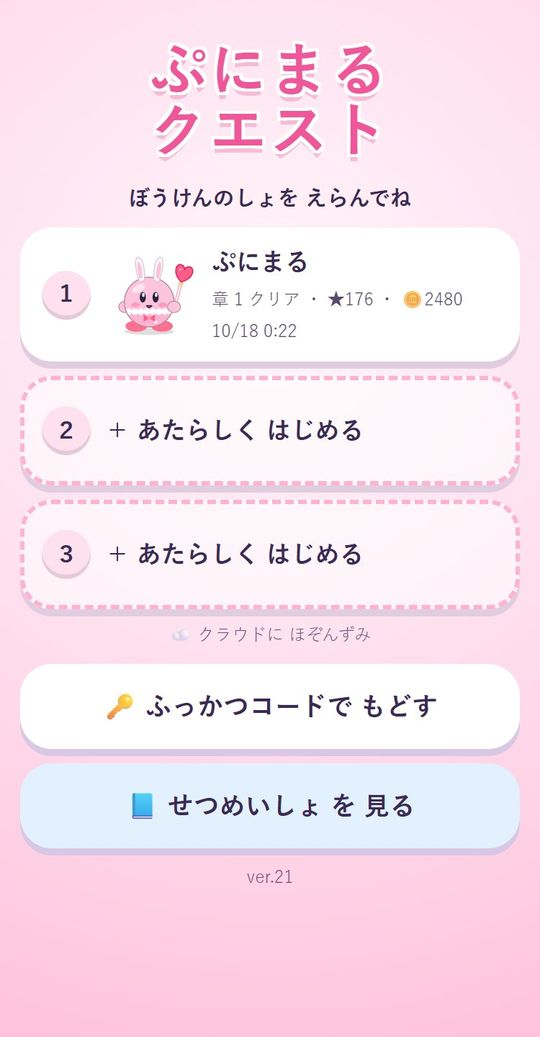
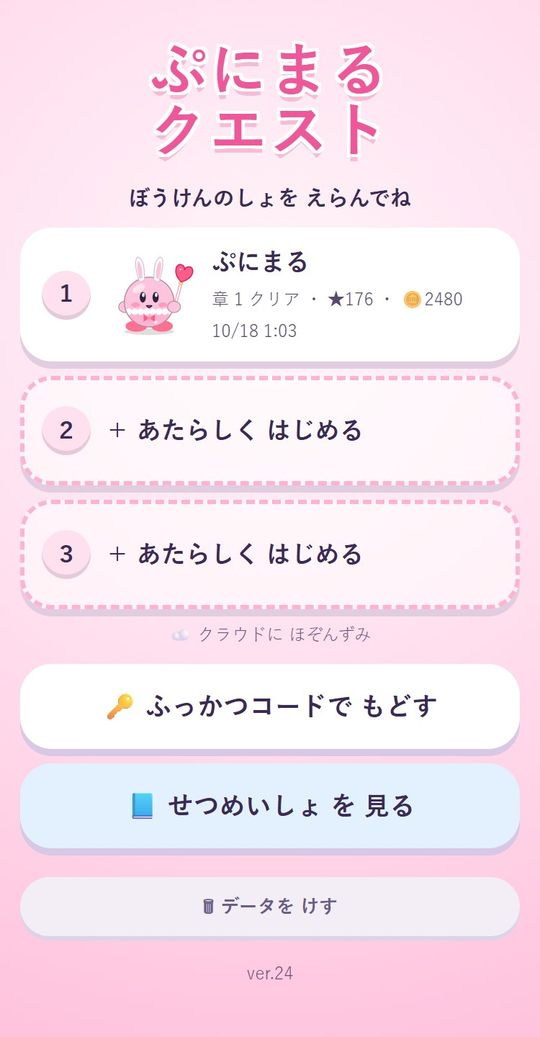
v24: タイトルから データを けす（2回確認）・けした データの ふっかつコード（最近5件）

Changed region(s): [[0.0296, 0.8332, 0.9778, 0.9566], [0.4741, 0.3086, 0.5037, 0.3394]]

diff --git a/app.js b/app.js
@@ -1653,13 +1653,71 @@ function doRestore() {
     S = Object.assign(newSave(), o); save(); closeModal(); toast("復元しました"); home();
   } catch (e) { toast("コードが正しくありません"); }
 }
-function resetAll() {
-  modal(`<div class="mtitle">ぼうけんのしょ${SL.cur + 1} を けす？</div><p class="small">「${esc(S.name)}」の コイン・そうび・カードが すべて きえます。<br>ほかの ぼうけんのしょは きえません。</p>
-    <div class="row"><button class="big-btn" onclick="closeModal()">やめる</button><button class="big-btn danger" onclick="deleteSlot()">けす</button></div>`);
+function resetAll() { delConfirm1(SL.cur); }
+
+// ---------- データを けす（タイトル画面から） ----------
+// けした データは クラウドに のこるので、ふっかつコードで もどせる。けした 記録は 5こまで のこす
+const DEL_KEY = PQ_DEBUG ? "puniquest_debug_deleted_v1" : "puniquest_deleted_v1";
+const delHistory = () => { try { return JSON.parse(localStorage.getItem(DEL_KEY) || "[]"); } catch (e) { return []; } };
+function delMenu() {
+  snd("tap");
+  const has = SL.slots.some((d) => d && d.name);
+  modal(`<div class="mtitle">🗑 データを けす</div>
+    <p class="small">けしたい ぼうけんのしょを えらんでね。</p>
+    <div class="rslots">${[0, 1, 2].map((i) => { const d = SL.slots[i]; return d && d.name
+      ? `<button class="big-btn" onclick="delConfirm1(${i})">ぼうけんのしょ${i + 1}：${esc(d.name)}<small>⭐${Object.values(d.stClear || {}).reduce((a, b) => a + b, 0)}・🪙${d.coins}・さいごに あそんだ日 ${d.savedAt ? new Date(d.savedAt).toLocaleDateString("ja-JP") : "-"}</small></button>`
+      : `<button class="big-btn" disabled>ぼうけんのしょ${i + 1}：からっぽ</button>`; }).join("")}</div>
+    ${has ? "" : `<p class="small">けせる データが ないよ。</p>`}
+    <button class="big-btn" onclick="closeModal()">やめる</button>`);
 }
-function deleteSlot() {
-  SL.slots[SL.cur] = null; writeSlots(); Cloud.markDirty(SL.cur);
-  S = null; closeModal(); title();
+// 1回目の かくにん
+function delConfirm1(i) {
+  const d = SL.slots[i];
+  if (!d) return;
+  snd("tap");
+  modal(`<div class="mtitle">ぼうけんのしょ${i + 1} を けす？</div>
+    <div class="hero xs">${charSVG(d.eq, d.color)}</div>
+    <p>「<b>${esc(d.name)}</b>」の コイン・そうび・カード・なかまが このスマホから きえます。<br>ほかの ぼうけんのしょは きえません。</p>
+    <div class="row"><button class="big-btn primary" onclick="closeModal()">やめる</button><button class="big-btn danger" onclick="delConfirm2(${i})">けす</button></div>`);
+}
+// 2回目の かくにん
+function delConfirm2(i) {
+  const d = SL.slots[i];
+  if (!d) return;
+  snd("ng");
+  modal(`<div class="mtitle">⚠ さいごの かくにん</div>
+    <p>ほんとうに「<b>${esc(d.name)}</b>」を けして いいですか？</p>
+    <p class="small">けした あとでも、「🗂 けした データの ふっかつコード」で コードを たしかめて、「🔑 ふっかつコードで もどす」に 入れると もとに もどせます（ネットに つながっている とき）。</p>
+    <div class="row"><button class="big-btn primary" onclick="closeModal()">やめる</button><button class="big-btn danger" onclick="doDelete(${i})">ほんとうに けす</button></div>`);
+}
+async function doDelete(i) {
+  const d = SL.slots[i];
+  if (!d) return;
+  modal(`<div class="mtitle">けしています…</div><div class="bigicon">🗑</div>`);
+  const r = await Cloud.detach(i).catch(() => ({ code: "", saved: false }));
+  const hist = delHistory();
+  hist.unshift({ name: d.name, code: r.code, at: Date.now(), saved: r.saved });
+  try { localStorage.setItem(DEL_KEY, JSON.stringify(hist.slice(0, 5))); } catch (e) { /* 無視 */ }
+  SL.slots[i] = null; writeSlots();
+  if (SL.cur === i) S = null;
+  snd("tap");
+  title();
+  modal(`<div class="mtitle">けしました</div>
+    <p>「${esc(d.name)}」を けしました。</p>
+    ${r.code ? `<p class="small">もどす ときの ふっかつコード：</p><p class="codebig">${r.code}</p>${r.saved ? "" : `<p class="small">⚠ さいごの セーブを クラウドに 送れませんでした。もどすと、すこし 前の データに なります。</p>`}`
+      : `<p class="small">クラウドに ほぞんしていない データなので、もとに もどすことは できません。</p>`}
+    <button class="big-btn" onclick="closeModal()">とじる</button>`);
+}
+// けした データの 記録（5こまで）
+function delList() {
+  snd("tap");
+  const h = delHistory();
+  modal(`<div class="mtitle">🗂 けした データの ふっかつコード</div>
+    <p class="small">さいきん けした 5こまで のこっているよ。もどしたい ときは コードを「🔑 ふっかつコードで もどす」に 入れてね。</p>
+    ${h.length ? `<div class="dellist">${h.map((x) => `<div class="delrow"><b>${esc(x.name)}</b><small>けした日：${new Date(x.at).toLocaleDateString("ja-JP")} ${new Date(x.at).toLocaleTimeString("ja-JP", { hour: "2-digit", minute: "2-digit" })}</small>
+      ${x.code ? `<span class="codebig sm">${x.code}</span><button class="big-btn" onclick="restoreMenu('${x.code}')">🔑 この コードで もどす</button>` : `<small>（クラウドに なかった ので もどせません）</small>`}</div>`).join("")}</div>`
+      : `<p class="small">まだ けした データは ないよ。</p>`}
+    <button class="big-btn" onclick="closeModal()">とじる</button>`);
 }
 async function cloudNow() {
   $("cstat").textContent = "⏳ 保存しています…";
@@ -1695,6 +1753,7 @@ function title() {
     ${updateV ? `<button class="big-btn primary" onclick="goTitle()">🆕 アップデートする</button>` : ""}
     ${Cloud.enabled() ? `<button class="big-btn" onclick="restoreMenu()">🔑 ふっかつコードで もどす</button>` : ""}
     <a class="big-btn manualbtn" href="${window.PQ_BASE || ""}manual/kids.html">📘 せつめいしょ を 見る</a>
+    <div class="row titlesub"><button class="big-btn" onclick="delMenu()">🗑 データを けす</button>${delHistory().length ? `<button class="big-btn" onclick="delList()">🗂 けした データの ふっかつコード</button>` : ""}</div>
     <p class="note">ver.${window.APP_V || "-"}</p>
   </div>`, "bg-home");
   // ほかのスマホで遊んだ分があれば取りこんで表示しなおす
@@ -1751,10 +1810,10 @@ async function manualSave(i) {
     <p>ぼうけんのしょ${i + 1} に ${where}</p><button class="big-btn primary" onclick="closeModal();home()">OK</button>`);
 }
 
-function restoreMenu() {
+function restoreMenu(pre) {
   snd("tap");
   modal(`<div class="mtitle">🔑 ふっかつコード</div><p class="small">⚙せってい画面に のっていた 12文字の コードを 入れて、もどす ばしょを えらんでね。</p>
-    <input id="rcode" class="rinput" maxlength="16" placeholder="XXXX-XXXX-XXXX" autocomplete="off" autocapitalize="characters">
+    <input id="rcode" class="rinput" maxlength="16" placeholder="XXXX-XXXX-XXXX" autocomplete="off" autocapitalize="characters" value="${pre || ""}">
     <div class="rslots">${[0, 1, 2].map((i) => `<button class="big-btn" onclick="doCloudRestore(${i})">ぼうけんのしょ${i + 1} に もどす<small>${SL.slots[i] && SL.slots[i].name ? `いまの「${esc(SL.slots[i].name)}」は きえます` : "からっぽ"}</small></button>`).join("")}</div>
     <button class="big-btn" onclick="closeModal()">やめる</button>`);
 }

diff --git a/manual/_src/puniquest-manual.html b/manual/_src/puniquest-manual.html
@@ -168,7 +168,7 @@ footer { margin-top: 48px; text-align: center; color: var(--ink-soft); font-size
     <div class="row">
       <div class="shot">
         <div class="phone"><img src="img/01_title.jpg" alt="タイトル画面" width="750" height="1440" loading="lazy">
-          <span class="pin" style="left:50%;top:28%">1</span><span class="pin" style="left:50%;top:41%">2</span><span class="pin" style="left:50%;top:68%">3</span><span class="pin" style="left:50%;top:78%">4</span>
+          <span class="pin" style="left:50%;top:28%">1</span><span class="pin" style="left:50%;top:41%">2</span><span class="pin" style="left:50%;top:68%">3</span><span class="pin" style="left:50%;top:78%">4</span><span class="pin" style="left:50%;top:87.4%">5</span>
         </div>
         <p class="cap">タイトル画面</p>
       </div>
@@ -179,6 +179,7 @@ footer { margin-top: 48px; text-align: center; color: var(--ink-soft); font-size
           <li><span class="n">2</span><span>はじめての ときは <span class="tap">＋ あたらしく はじめる</span> を タップ。つづきから あそぶ ときは、じぶんの ぼうけんのしょを タップしてね。</span></li>
           <li><span class="n">3</span><span><span class="tap">🔑 ふっかつコードで もどす</span> は、データが きえて しまった ときに つかうよ。コードを 入れて、もどす ぼうけんのしょ（1〜3）を えらぶよ（おうちの人と いっしょに）。</span></li>
           <li><span class="n">4</span><span><span class="tap">📘 せつめいしょ を 見る</span> で、この せつめいしょが 見られるよ。</span></li>
+          <li><span class="n">5</span><span><span class="tap">🗑 データを けす</span>：いらなく なった ぼうけんのしょを けす。けす前に 2回 かくにんするよ。けした データは「🗂 けした データの ふっかつコード」（さいきん 5こ）で コードを 見て、もとに もどせるよ（おうちの人と いっしょに）。</span></li>
         </ol>
         <div class="tip">アップデートが あると、画面の 下に おしらせが 出るよ。<span class="tap">タイトル</span> に もどると、あたらしい ゲームに かわるよ。</div>
       </div>
@@ -684,6 +685,7 @@ footer { margin-top: 48px; text-align: center; color: var(--ink-soft); font-size
         <h3>💾 データの保存</h3>
         <ul>
           <li>進み具合は自動で端末とクラウドに保存されます。ぼうけんのしょは3つまで。</li>
+          <li>テストで作ったデータなどは、タイトル画面の「🗑 データを けす」で消せます（2回確認あり）。消したデータもクラウドには残り、「🗂 けした データの ふっかつコード」に名前・コード・消した日が最近5件まで表示されるので、そのコードで元に戻せます（この記録は消した端末にだけ残ります）。</li>
           <li>ブラウザのデータが消えても、タイトル画面の「ふっかつコードで もどす」に12文字のコードを入れ、もどす場所（ぼうけんのしょ1〜3）を選ぶと元に戻ります。コードはぼうけんのしょごとに別なので、それぞれ控えておいてください。</li>
         </ul>
       </div>
@@ -720,5 +722,5 @@ footer { margin-top: 48px; text-align: center; color: var(--ink-soft); font-size
     </div>
   </section>
 
-  <footer>ぷにまるクエスト ぼうけんガイド　・　画面は ver.23 の ものです</footer>
+  <footer>ぷにまるクエスト ぼうけんガイド　・　画面は ver.24 の ものです</footer>
 </div>

diff --git a/manual/kids.html b/manual/kids.html
@@ -190,7 +190,7 @@ section, header, nav.toc, .pc, .qa { scroll-margin-top: 84px; }
     <div class="row">
       <div class="shot">
         <div class="phone"><img src="img/01_title.jpg" alt="タイトル画面" width="750" height="1440" loading="lazy">
-          <span class="pin" style="left:50%;top:28%">1</span><span class="pin" style="left:50%;top:41%">2</span><span class="pin" style="left:50%;top:68%">3</span><span class="pin" style="left:50%;top:78%">4</span>
+          <span class="pin" style="left:50%;top:28%">1</span><span class="pin" style="left:50%;top:41%">2</span><span class="pin" style="left:50%;top:68%">3</span><span class="pin" style="left:50%;top:78%">4</span><span class="pin" style="left:50%;top:87.4%">5</span>
         </div>
         <p class="cap">タイトル画面</p>
       </div>
@@ -201,6 +201,7 @@ section, header, nav.toc, .pc, .qa { scroll-margin-top: 84px; }
           <li><span class="n">2</span><span>はじめての ときは <span class="tap">＋ あたらしく はじめる</span> を タップ。つづきから あそぶ ときは、じぶんの ぼうけんのしょを タップしてね。</span></li>
           <li><span class="n">3</span><span><span class="tap">🔑 ふっかつコードで もどす</span> は、データが きえて しまった ときに つかうよ。コードを 入れて、もどす ぼうけんのしょ（1〜3）を えらぶよ（おうちの人と いっしょに）。</span></li>
           <li><span class="n">4</span><span><span class="tap">📘 せつめいしょ を 見る</span> で、この せつめいしょが 見られるよ。</span></li>
+          <li><span class="n">5</span><span><span class="tap">🗑 データを けす</span>：いらなく なった ぼうけんのしょを けす。けす前に 2回 かくにんするよ。けした データは「🗂 けした データの ふっかつコード」（さいきん 5こ）で コードを 見て、もとに もどせるよ（おうちの人と いっしょに）。</span></li>
         </ol>
         <div class="tip">アップデートが あると、画面の 下に おしらせが 出るよ。<span class="tap">タイトル</span> に もどると、あたらしい ゲームに かわるよ。</div>
       </div>

diff --git a/cloud.js b/cloud.js
@@ -167,5 +167,13 @@ const Cloud = (() => {
   window.addEventListener("online", () => push());
   document.addEventListener("visibilitychange", () => { if (document.visibilityState === "hidden") push(); });
 
-  return { enabled, code: (i) => fmt(code(i)), hasCode: (i) => !!st.codes[i], markDirty, freshCode, push, pullAll, restore, status, fetchCfg, lastOk: () => lastOk };
+  // ぼうけんのしょを けす とき：さいしんの データを 送ってから コードを はずす。クラウドには のこるので、コードで もどせる
+  async function detach(i) {
+    const c = st.codes[i];
+    if (enabled() && SL.slots[i]) { if (!c) code(i); st.dirty[i] = true; await push(); }
+    const out = st.codes[i] || "", ok = !st.dirty[i];
+    st.codes[i] = ""; st.dirty[i] = false; st.clean[i] = false; persist();
+    return { code: out ? fmt(out) : "", saved: ok && !!out };
+  }
+  return { enabled, detach, code: (i) => fmt(code(i)), hasCode: (i) => !!st.codes[i], markDirty, freshCode, push, pullAll, restore, status, fetchCfg, lastOk: () => lastOk };
 })();

diff --git a/manual/parents.html b/manual/parents.html
@@ -221,6 +221,7 @@ section, header, nav.toc, .pc, .qa { scroll-margin-top: 84px; }
         <h3>💾 データの保存</h3>
         <ul>
           <li>進み具合は自動で端末とクラウドに保存されます。ぼうけんのしょは3つまで。</li>
+          <li>テストで作ったデータなどは、タイトル画面の「🗑 データを けす」で消せます（2回確認あり）。消したデータもクラウドには残り、「🗂 けした データの ふっかつコード」に名前・コード・消した日が最近5件まで表示されるので、そのコードで元に戻せます（この記録は消した端末にだけ残ります）。</li>
           <li>ブラウザのデータが消えても、タイトル画面の「ふっかつコードで もどす」に12文字のコードを入れ、もどす場所（ぼうけんのしょ1〜3）を選ぶと元に戻ります。コードはぼうけんのしょごとに別なので、それぞれ控えておいてください。</li>
         </ul>
       </div>

diff --git a/style.css b/style.css
@@ -703,3 +703,13 @@ a.manualbtn { display: block; text-align: center; text-decoration: none; color: 
 .rslots { display: flex; flex-direction: column; gap: 6px; margin: 8px 0; }
 .rslots .big-btn { margin: 0; font-size: 15px; }
 .rslots .big-btn small { display: block; font-size: 11px; font-weight: normal; opacity: .75; }
+
+/* データを けす */
+.titlesub { gap: 6px; }
+.titlesub .big-btn { font-size: 13px; padding: 10px 6px; background: #f3eef6; color: #6b5b8a; box-shadow: 0 3px 0 #ddd3e6; }
+.big-btn.danger { background: #ff5c6c; color: #fff; box-shadow: 0 4px 0 #c62f3e; }
+.dellist { display: flex; flex-direction: column; gap: 8px; margin: 8px 0; max-height: 52vh; overflow-y: auto; }
+.delrow { background: #fff7f8; border: 2px solid #ffd1d6; border-radius: 14px; padding: 10px; display: flex; flex-direction: column; gap: 4px; text-align: left; }
+.delrow small { font-size: 12px; color: #6b5b8a; }
+.delrow .big-btn { margin: 4px 0 0; font-size: 14px; padding: 8px; }
+.codebig.sm { font-size: 18px; margin: 2px 0; }

diff --git a/sw.js b/sw.js
@@ -1,6 +1,6 @@
 // オフラインでも遊べるように、アプリのファイルを保存しておく
 // ※アプリを更新したら VERSION の数字を上げる
-const VERSION = "puni-v23";
+const VERSION = "puni-v24";
 const FILES = ["./", "index.html", "style.css", "data.js", "world.js", "c_kanji.js", "c_kotoba.js", "c_math.js", "c_sci.js", "c_soc.js", "cloud.js", "pets.js", "music.js", "gear.js", "extra.js", "treasure.js", "app.js", "manifest.webmanifest", "icons/icon-192.png", "icons/apple-touch-icon.png"];
 
 self.addEventListener("install", (e) => {
